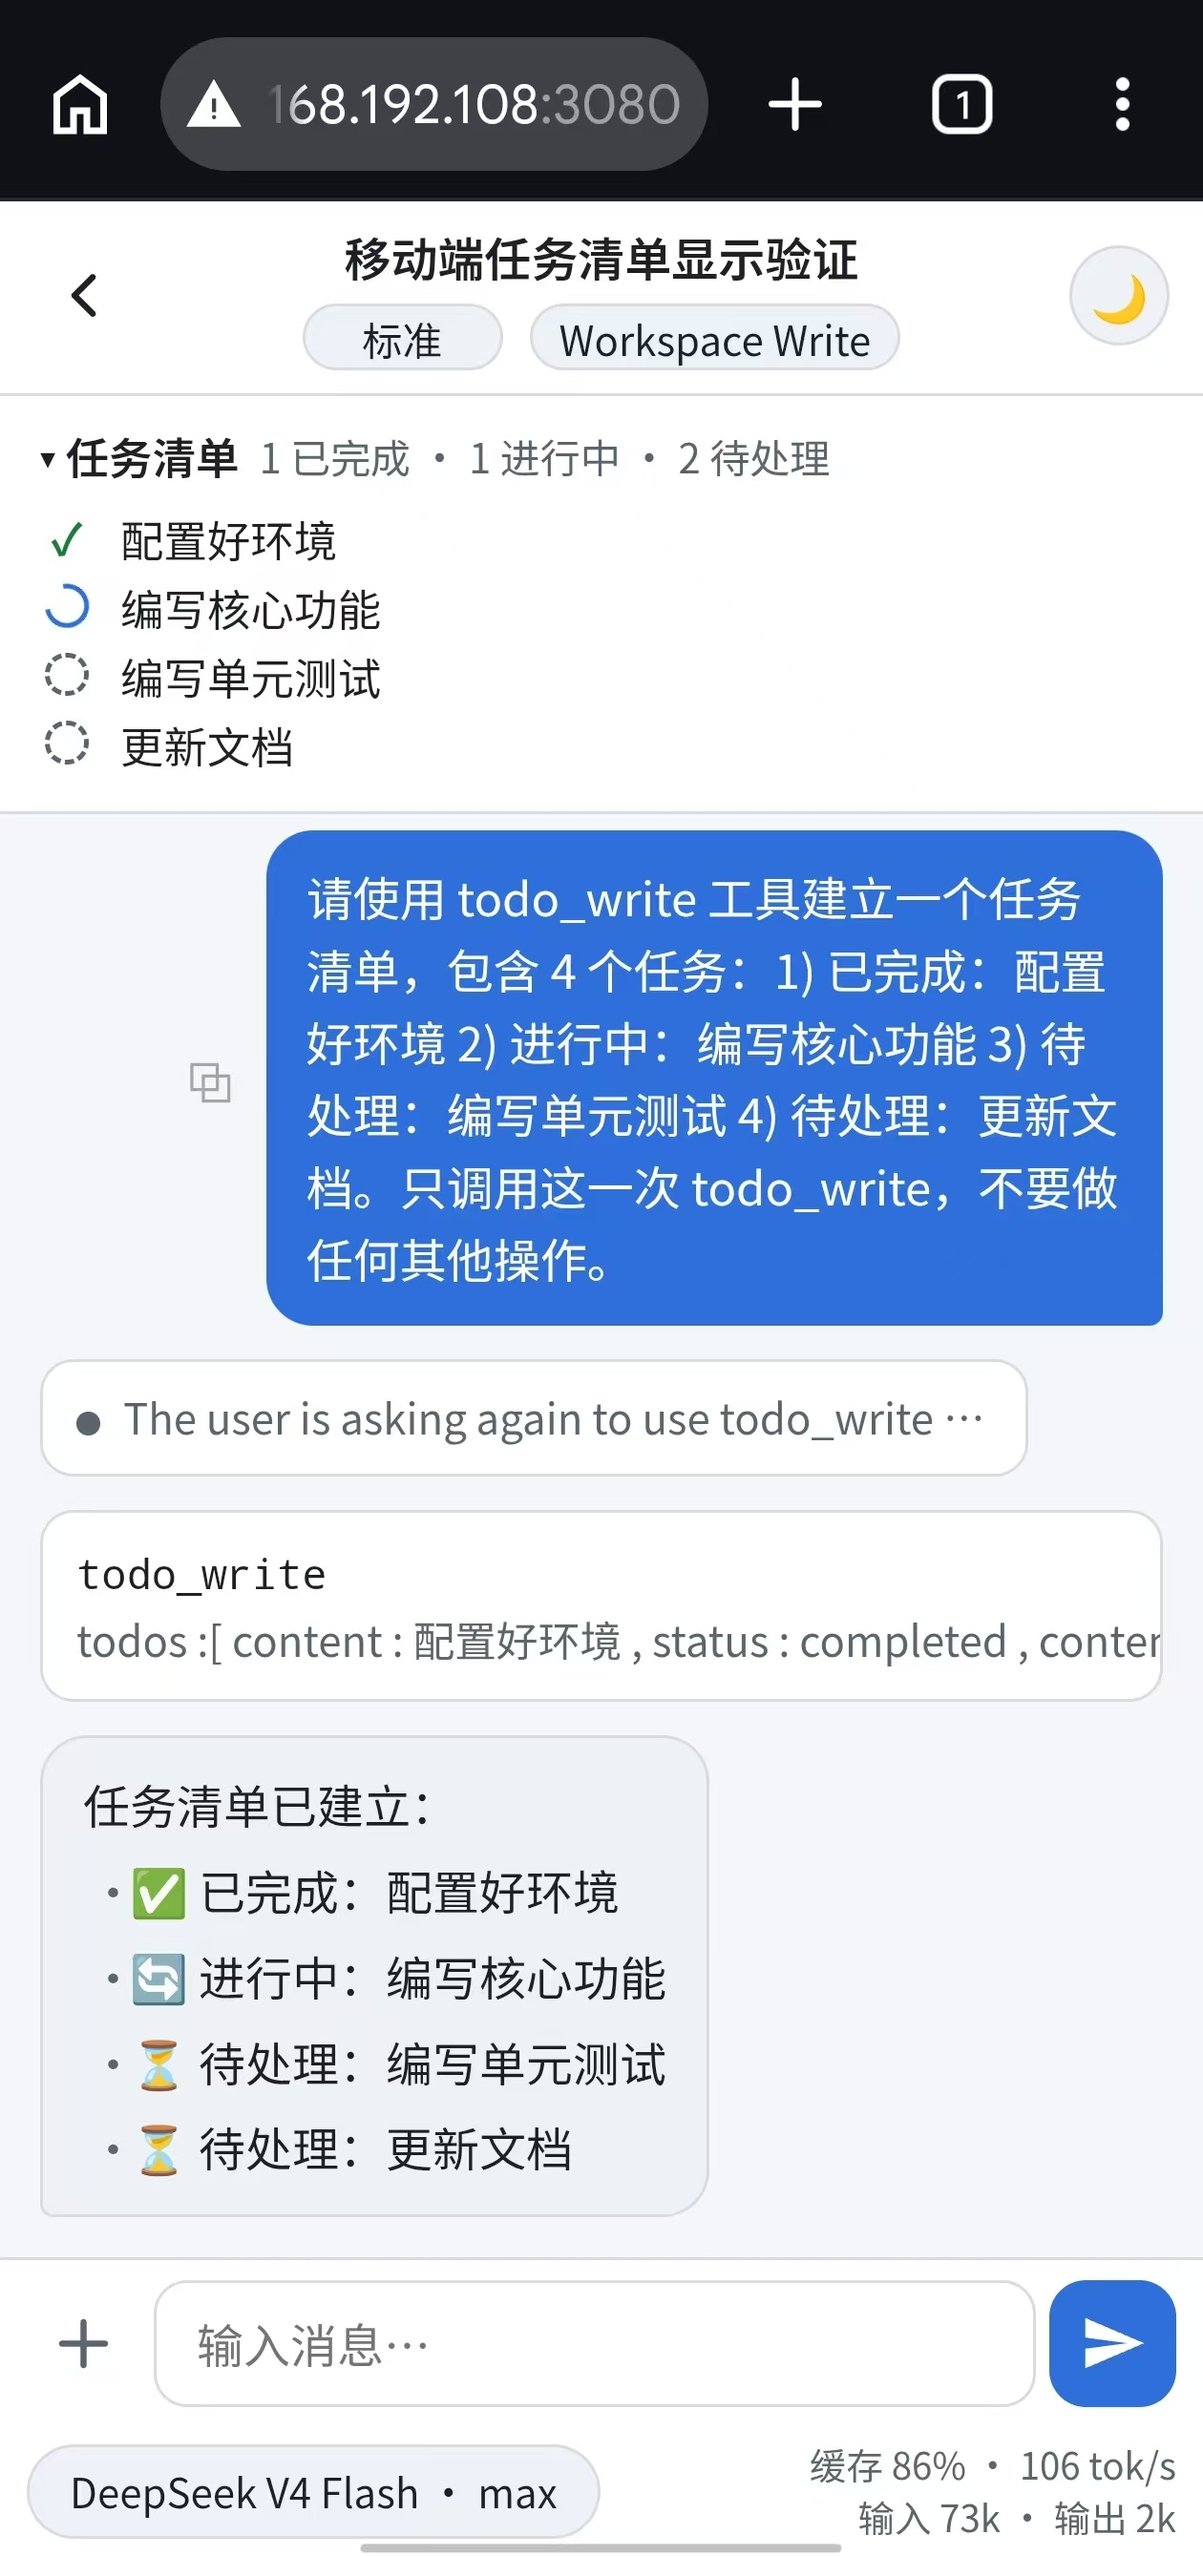
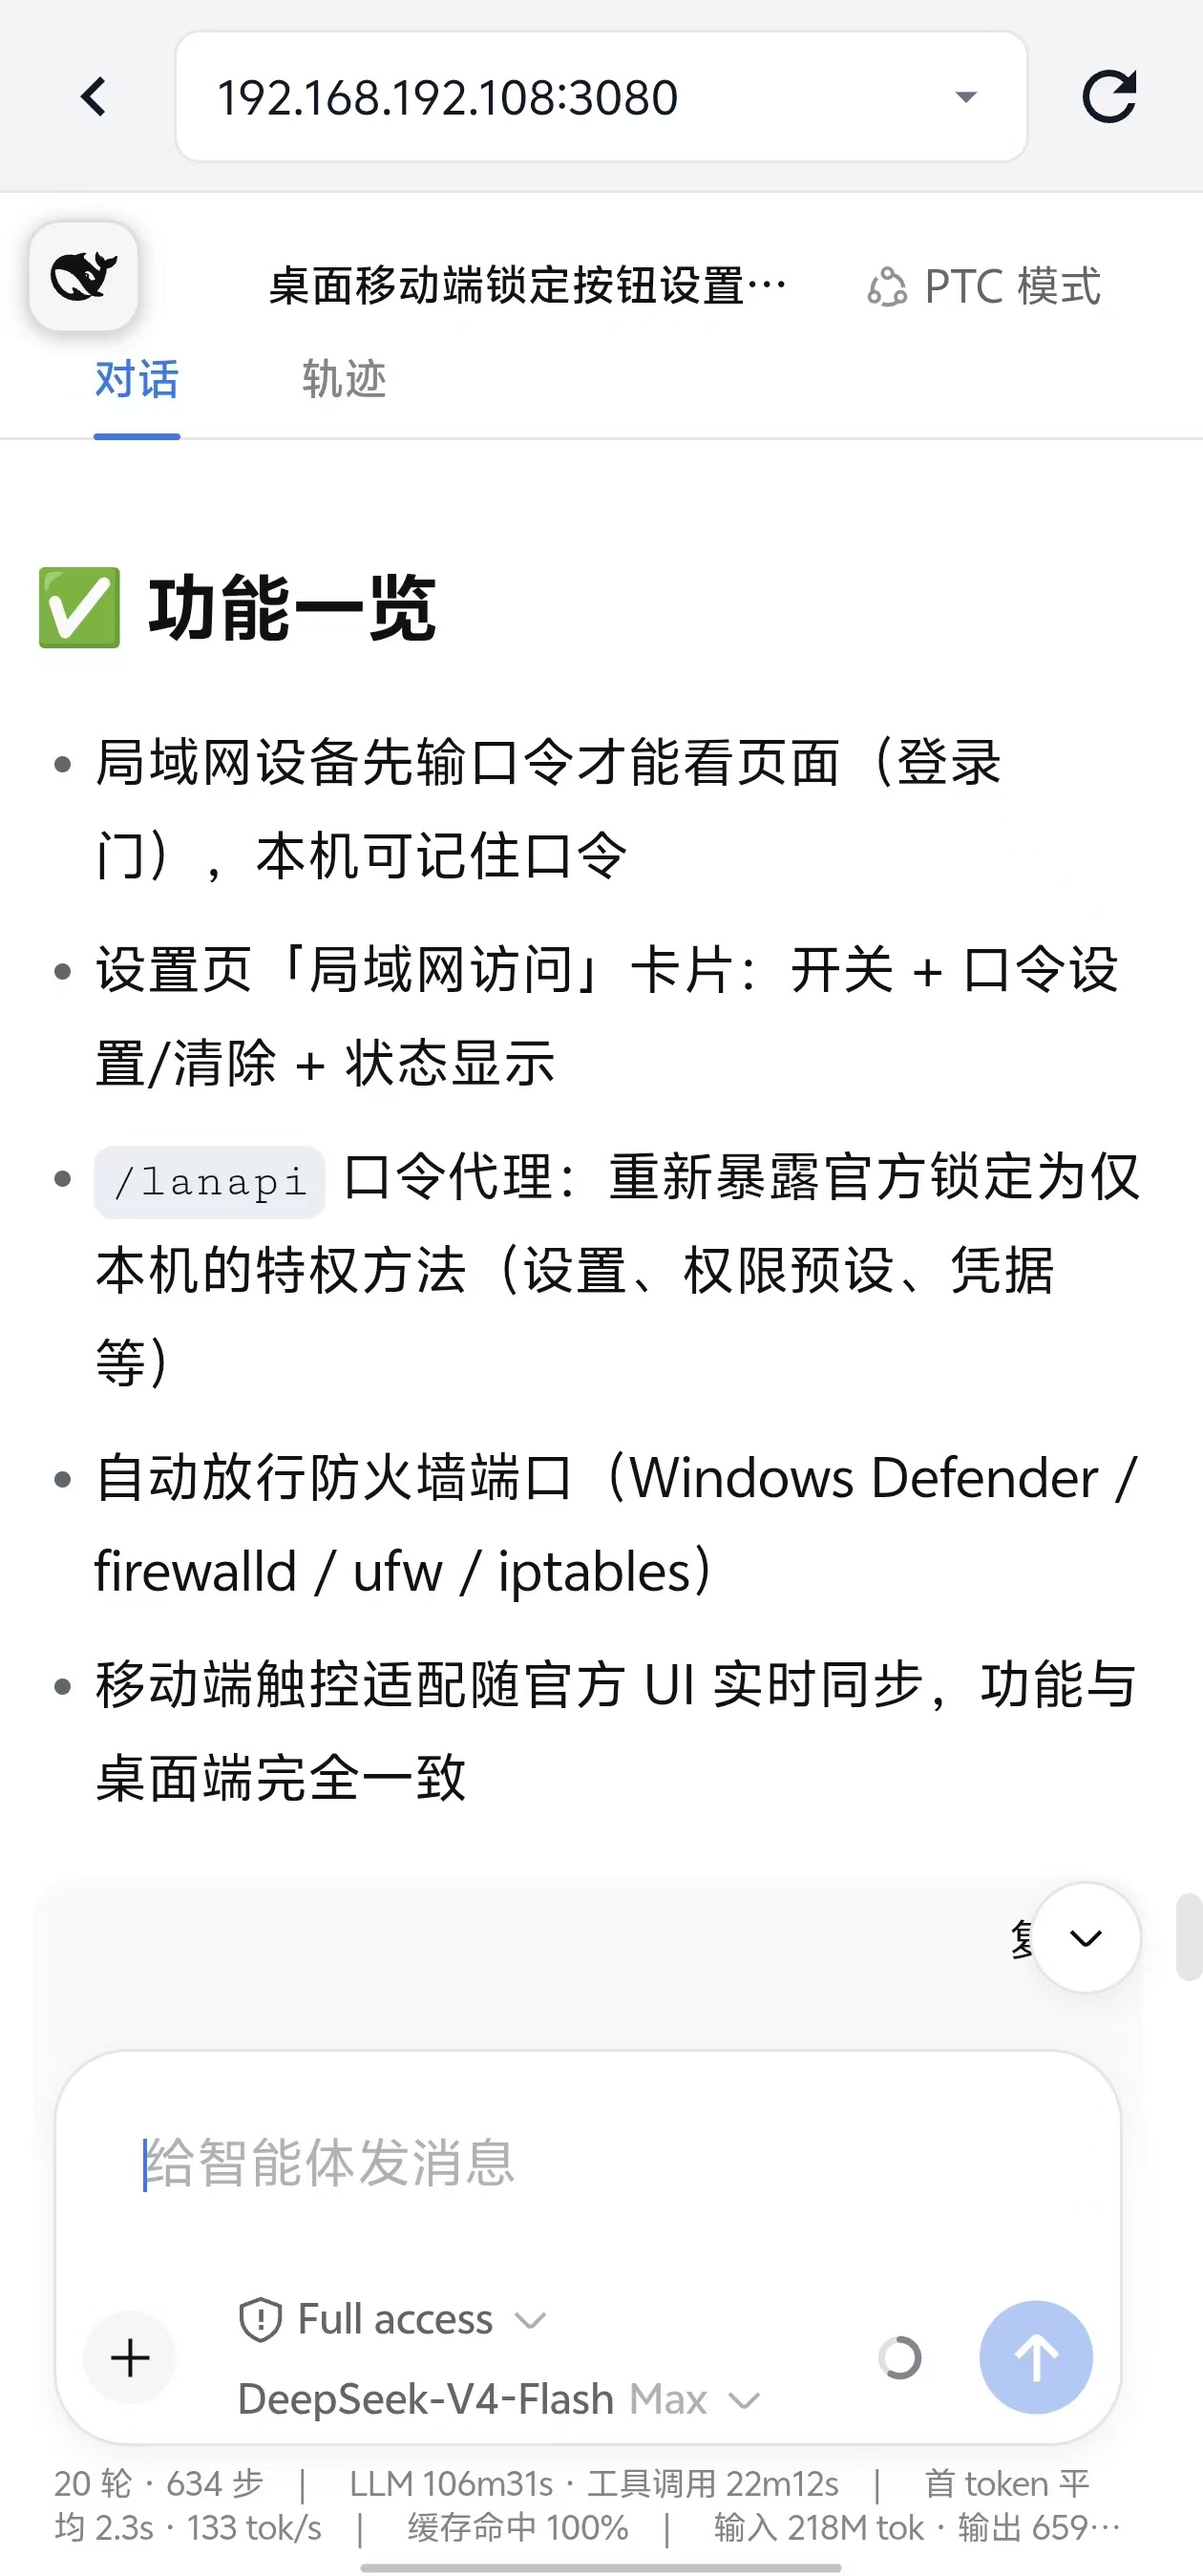
鲸鱼按钮缩小/阴影减轻/上移 + 提问对话框移动端适配（v63-v64）
v63: 左上角鲸鱼按钮 38x38 -> 34x34、图标 23x17 -> 20x15、阴影
0 2px 12px .35 -> 0 1px 6px .25、top 8px -> 4px；拖拽边界 clamp 同步。

v64: ask_user_question 提问卡片移动端适配——官方 QuestionComposer/
PlanReviewPanel 的 _frame 在窄屏撑出 446px（内容盒 padding 溢出）且
sticky 合成器导致卡片顶部被裁；移动端覆盖为 border-box 全宽 + 12px
边距 + 高度上限，卡片完整落在视口内（390x844 实测 left 12/right 370/
top 577/bottom 833）。修复过程中误丢的 v52-v60 规则（状态栏 10px、
回复 13px、body gap、鲸鱼 touch-action）已恢复。

docs/手机端展示.jpg 同步更新。

diff --git a/lib/client.js b/lib/client.js
@@ -71,8 +71,8 @@ window.__ModuleLoader__.load({
 				"[class$=\"_frame\"][data-sidebar-collapsed]{grid-template-columns:0 minmax(0,1fr) 0 !important}",
 				// keep the chat header title clear of the floating whale
 				"body.dsh-lan-rail-hidden [class$=\"_titleRow\"]{padding-left:52px}",
-				"#dshLanWhale{position:fixed;top:calc(8px + env(safe-area-inset-top));left:calc(8px + env(safe-area-inset-left));z-index:2147482999;width:38px;height:38px;min-width:38px;padding:0;border-radius:11px;background:var(--dsw-alias-bg-module-platform);border:1px solid var(--dsw-alias-border-l2);color:var(--dsw-alias-label-primary);display:flex;align-items:center;justify-content:center;cursor:pointer;box-shadow:0 2px 12px rgba(0,0,0,.35)}",
-				"#dshLanWhale svg{width:23px;height:17px;display:block}",
+				"#dshLanWhale{position:fixed;top:calc(4px + env(safe-area-inset-top));left:calc(8px + env(safe-area-inset-left));z-index:2147482999;width:34px;height:34px;min-width:34px;padding:0;border-radius:10px;background:var(--dsw-alias-bg-module-platform);border:1px solid var(--dsw-alias-border-l2);color:var(--dsw-alias-label-primary);display:flex;align-items:center;justify-content:center;cursor:pointer;box-shadow:0 1px 6px rgba(0,0,0,.25)}",
+				"#dshLanWhale svg{width:20px;height:15px;display:block}",
 				"#dshLanWhale:active{opacity:.72}",
 				// ── v51/v52: mobile-only tweaks ──────────────────────────────
 				// smaller collapse toggle in the expanded sidebar (the toggle
@@ -108,7 +108,6 @@ window.__ModuleLoader__.load({
 				// higher specificity than the reply-root rule above; v55: wrap
 				// freely but clamp at two lines (the official rule is
 				// nowrap + single-line ellipsis); v56: left-aligned with the
-				// composer card edge, tighter line-height and letter-spacing;
 				// v60: drop the official 32px right padding so the text also
 				// extends to the card's right edge
 				"[class$=\"_composerSeat\"] [data-slot=\"conversation.composer.dock\"] [class$=\"_root\"]{font-size:10px;white-space:normal;word-break:break-word;overflow-wrap:anywhere;display:-webkit-box;-webkit-line-clamp:2;-webkit-box-orient:vertical;overflow:hidden;text-align:left;line-height:13px;letter-spacing:-0.2px;padding-left:0;padding-right:0}",
@@ -121,7 +120,16 @@ window.__ModuleLoader__.load({
 				// labels, composer controls…) stay visible on mobile. Hide all
 				// tooltip bubbles in portrait (scoped by role — user message
 				// bubbles share the _bubble suffix).
-				"[class$=\"_bubble\"][role=\"tooltip\"]{display:none}"
+				"[class$=\"_bubble\"][role=\"tooltip\"]{display:none}",
+				// v64: the ask_user_question takeover (QuestionComposer /
+				// PlanReviewPanel share the _frame/_card suffixes) overflows a
+				// narrow phone: its frame is width:100% + 32px content-box
+				// paddings (446px on a 390px screen) and the sticky bottom
+				// composer seat pushes the card top above the viewport. Pin
+				// the frame to the viewport with border-box and cap its
+				// height so the card sits fully on screen.
+				"[class$=\"_composerSeat\"] [class$=\"_frame\"]{box-sizing:border-box;width:100%;max-width:100%;padding-left:12px;padding-right:12px;height:auto;max-height:calc(100dvh - 96px);align-items:flex-start;overflow-y:auto}",
+				"[class$=\"_composerSeat\"] [class$=\"_frame\"] [class$=\"_card\"]{max-width:none;width:100%}"
 			].join("");
 			function apply() {
 				if (active) return;
@@ -206,9 +214,8 @@ window.__ModuleLoader__.load({
 					if (drag === null) return;
 					const dx = e.clientX - drag.x;
 					const dy = e.clientY - drag.y;
-					if (Math.abs(dx) + Math.abs(dy) > 4) drag.moved = true;
-					whaleEl.style.left = Math.min(Math.max(4, drag.left + dx), window.innerWidth - 42) + "px";
-					whaleEl.style.top = Math.min(Math.max(4, drag.top + dy), window.innerHeight - 42) + "px";
+					whaleEl.style.left = Math.min(Math.max(4, drag.left + dx), window.innerWidth - 38) + "px";
+					whaleEl.style.top = Math.min(Math.max(4, drag.top + dy), window.innerHeight - 38) + "px";
 					e.preventDefault();
 					e.stopPropagation();
 				});
